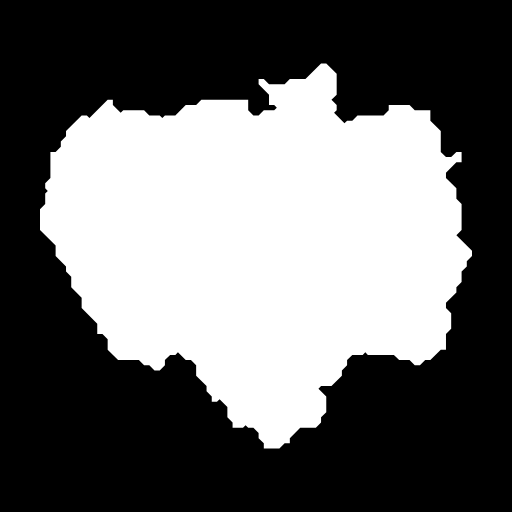
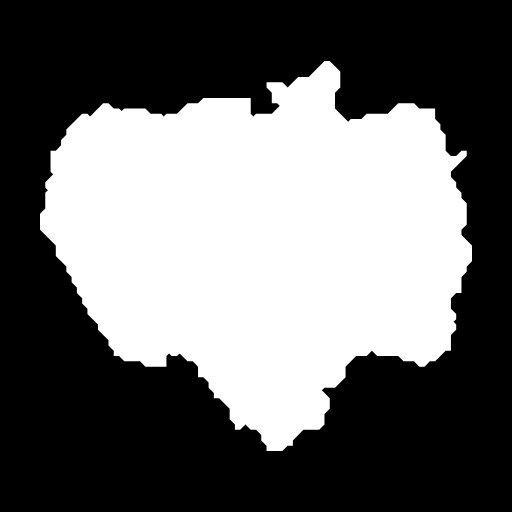
Visible land: monotone, gradual growth at every slider step
Coverage at the corridor edge is now counted fractionally instead of in 1/15
steps, and the zoomed-out threshold follows a fitted exponential curve, so
no 5% step ever shows less land than the one before.

diff --git a/src/mask.ts b/src/mask.ts
@@ -2,17 +2,20 @@
  * Reveal grid. The finest level stores, per ~300 m cell, how deep inside a river corridor it sits:
  * 0 = on the river, distLevels-1 = at the corridor's edge, distLevels = outside every corridor.
  * The "visible land" slider is a corridor scale: a cell is inside when depth < scale * distLevels.
- * Coarser zooms count how many fine cells each coarse cell contains and show it when the share
- * reaches min(cap, base + perScale * scale), so thin corridors still light up the cells they cross.
+ * Coarser zooms count how much of each coarse cell is covered and show it when the share reaches
+ * T(scale) = cap - (cap - t0) * exp(-k * (scale - s0)): lenient for thin corridors so the big
+ * rivers' ribbons show, tightening smoothly as corridors widen so growth stays gradual.
  * The counts are rebuilt whenever the scale changes.
  */
 export interface MaskIndex {
   subdivision: number; maxMaskZoom: number; minLevel: number; maxLevel: number;
-  distLevels: number; coarseFraction: { base: number; perScale: number; cap: number }; defaultWidth: number;
+  distLevels: number; coarseFraction: { t0: number; s0: number; k: number; cap: number }; defaultWidth: number;
   finest: { maskZoom: number; x0: number; y0: number; w: number; h: number; file: string };
 }
 type Counts = Uint8Array | Uint16Array | Uint32Array;
+/** count: coverage per cell in fixed point, FULL per fully covered fine cell (partial at the corridor edge). */
 interface Level { M: number; x0: number; y0: number; w: number; h: number; count: Counts; finePerCell: number }
+const FULL = 255;
 
 /**
  * n: cells per tile side. grid: (n+2)^2 visibility with one cell of padding. bridges: same layout,
@@ -66,14 +69,21 @@ export class Mask {
   }
   getVisible() { return this.scale; }
 
-  /** Threshold the depth field at the current scale, then halve up into the coarse count levels. */
+  /**
+   * Weight the depth field at the current scale, then halve up into the coarse count levels.
+   * A cell at depth step q spans normalised distances [q, q+1) / levels; at corridor scale s the
+   * share of it inside the corridor is clamp(s*levels - q, 0, 1). Counting that share rather than
+   * a yes/no keeps coverage growing smoothly with the slider instead of jumping every 1/levels.
+   */
   private rebuild() {
     const f = this.index.finest;
-    // inside when depth < scale * levels, i.e. depth <= maxDepth
-    const maxDepth = Math.min(this.index.distLevels - 1, Math.ceil(this.scale * this.index.distLevels) - 1);
+    const L = this.index.distLevels;
+    const edge = this.scale * L;
+    const weight = new Uint8Array(L + 1); // by depth step; step L = outside every corridor
+    for (let q = 0; q < L; q++) weight[q] = Math.round(FULL * Math.min(1, Math.max(0, edge - q)));
     const count = new Uint8Array(f.w * f.h);
     const d = this.depth;
-    for (let i = 0; i < count.length; i++) count[i] = d[i] <= maxDepth ? 1 : 0;
+    for (let i = 0; i < count.length; i++) count[i] = weight[d[i]];
     this.levels.clear();
     let level: Level = { M: f.maskZoom, x0: f.x0, y0: f.y0, w: f.w, h: f.h, count, finePerCell: 1 };
     this.levels.set(level.M, level);
@@ -90,7 +100,8 @@ export class Mask {
     const x1 = Math.floor((l.x0 + l.w - 1) / 2), y1 = Math.floor((l.y0 + l.h - 1) / 2);
     const w = x1 - x0 + 1, h = y1 - y0 + 1;
     const finePerCell = l.finePerCell * 4;
-    const count: Counts = finePerCell <= 255 ? new Uint8Array(w * h) : finePerCell <= 65535 ? new Uint16Array(w * h) : new Uint32Array(w * h);
+    const max = finePerCell * FULL;
+    const count: Counts = max <= 255 ? new Uint8Array(w * h) : max <= 65535 ? new Uint16Array(w * h) : new Uint32Array(w * h);
     const ox = x0 * 2 - l.x0, oy = y0 * 2 - l.y0; // fine coords of coarse (0,0)
     for (let cy = 0; cy < h; cy++) {
       const fy0 = oy + cy * 2, fy1 = fy0 + 1;
@@ -108,15 +119,21 @@ export class Mask {
 
   private maskZoomFor(z: number) { return Math.min(z + this.index.subdivision, this.index.maxMaskZoom); }
 
+  /** Minimum count for a cell of this level to show. Finest cells show as soon as any of them is inside. */
+  private needFor(l: Level): number {
+    if (l.finePerCell === 1) return 1;
+    const cf = this.index.coarseFraction;
+    const minFraction = cf.cap - (cf.cap - cf.t0) * Math.exp(-cf.k * (this.scale - cf.s0));
+    return Math.max(1, Math.ceil(l.finePerCell * FULL * minFraction));
+  }
+
   /**
    * Visible cells of one coarse level as a bitmap, for drawing an overview. Cells are in web
    * mercator tile units at mask zoom M (world = 2^M cells across).
    */
   silhouette(M: number): { M: number; x0: number; y0: number; w: number; h: number; on: Uint8Array } {
     const l = this.levels.get(M) ?? this.levels.get(this.index.minLevel + this.index.subdivision)!;
-    const cf = this.index.coarseFraction;
-    const minFraction = Math.min(cf.cap, cf.base + cf.perScale * this.scale);
-    const need = l.finePerCell === 1 ? 1 : Math.max(1, Math.ceil(l.finePerCell * minFraction));
+    const need = this.needFor(l);
     const on = new Uint8Array(l.w * l.h);
     for (let i = 0; i < on.length; i++) on[i] = l.count[i] >= need ? 1 : 0;
     return { M: l.M, x0: l.x0, y0: l.y0, w: l.w, h: l.h, on };
@@ -129,9 +146,7 @@ export class Mask {
   coverage(z: number, x: number, y: number): Coverage {
     const M = this.maskZoomFor(z);
     const l = this.levels.get(M) ?? this.levels.get(this.index.minLevel + this.index.subdivision)!;
-    const cf = this.index.coarseFraction;
-    const minFraction = Math.min(cf.cap, cf.base + cf.perScale * this.scale);
-    const need = l.finePerCell === 1 ? 1 : Math.max(1, Math.ceil(l.finePerCell * minFraction));
+    const need = this.needFor(l);
     let n: number, cx0: number, cy0: number;
     if (l.M >= z) { n = 1 << (l.M - z); cx0 = x * n; cy0 = y * n; }
     else { n = 1; cx0 = x >> (z - l.M); cy0 = y >> (z - l.M); }
